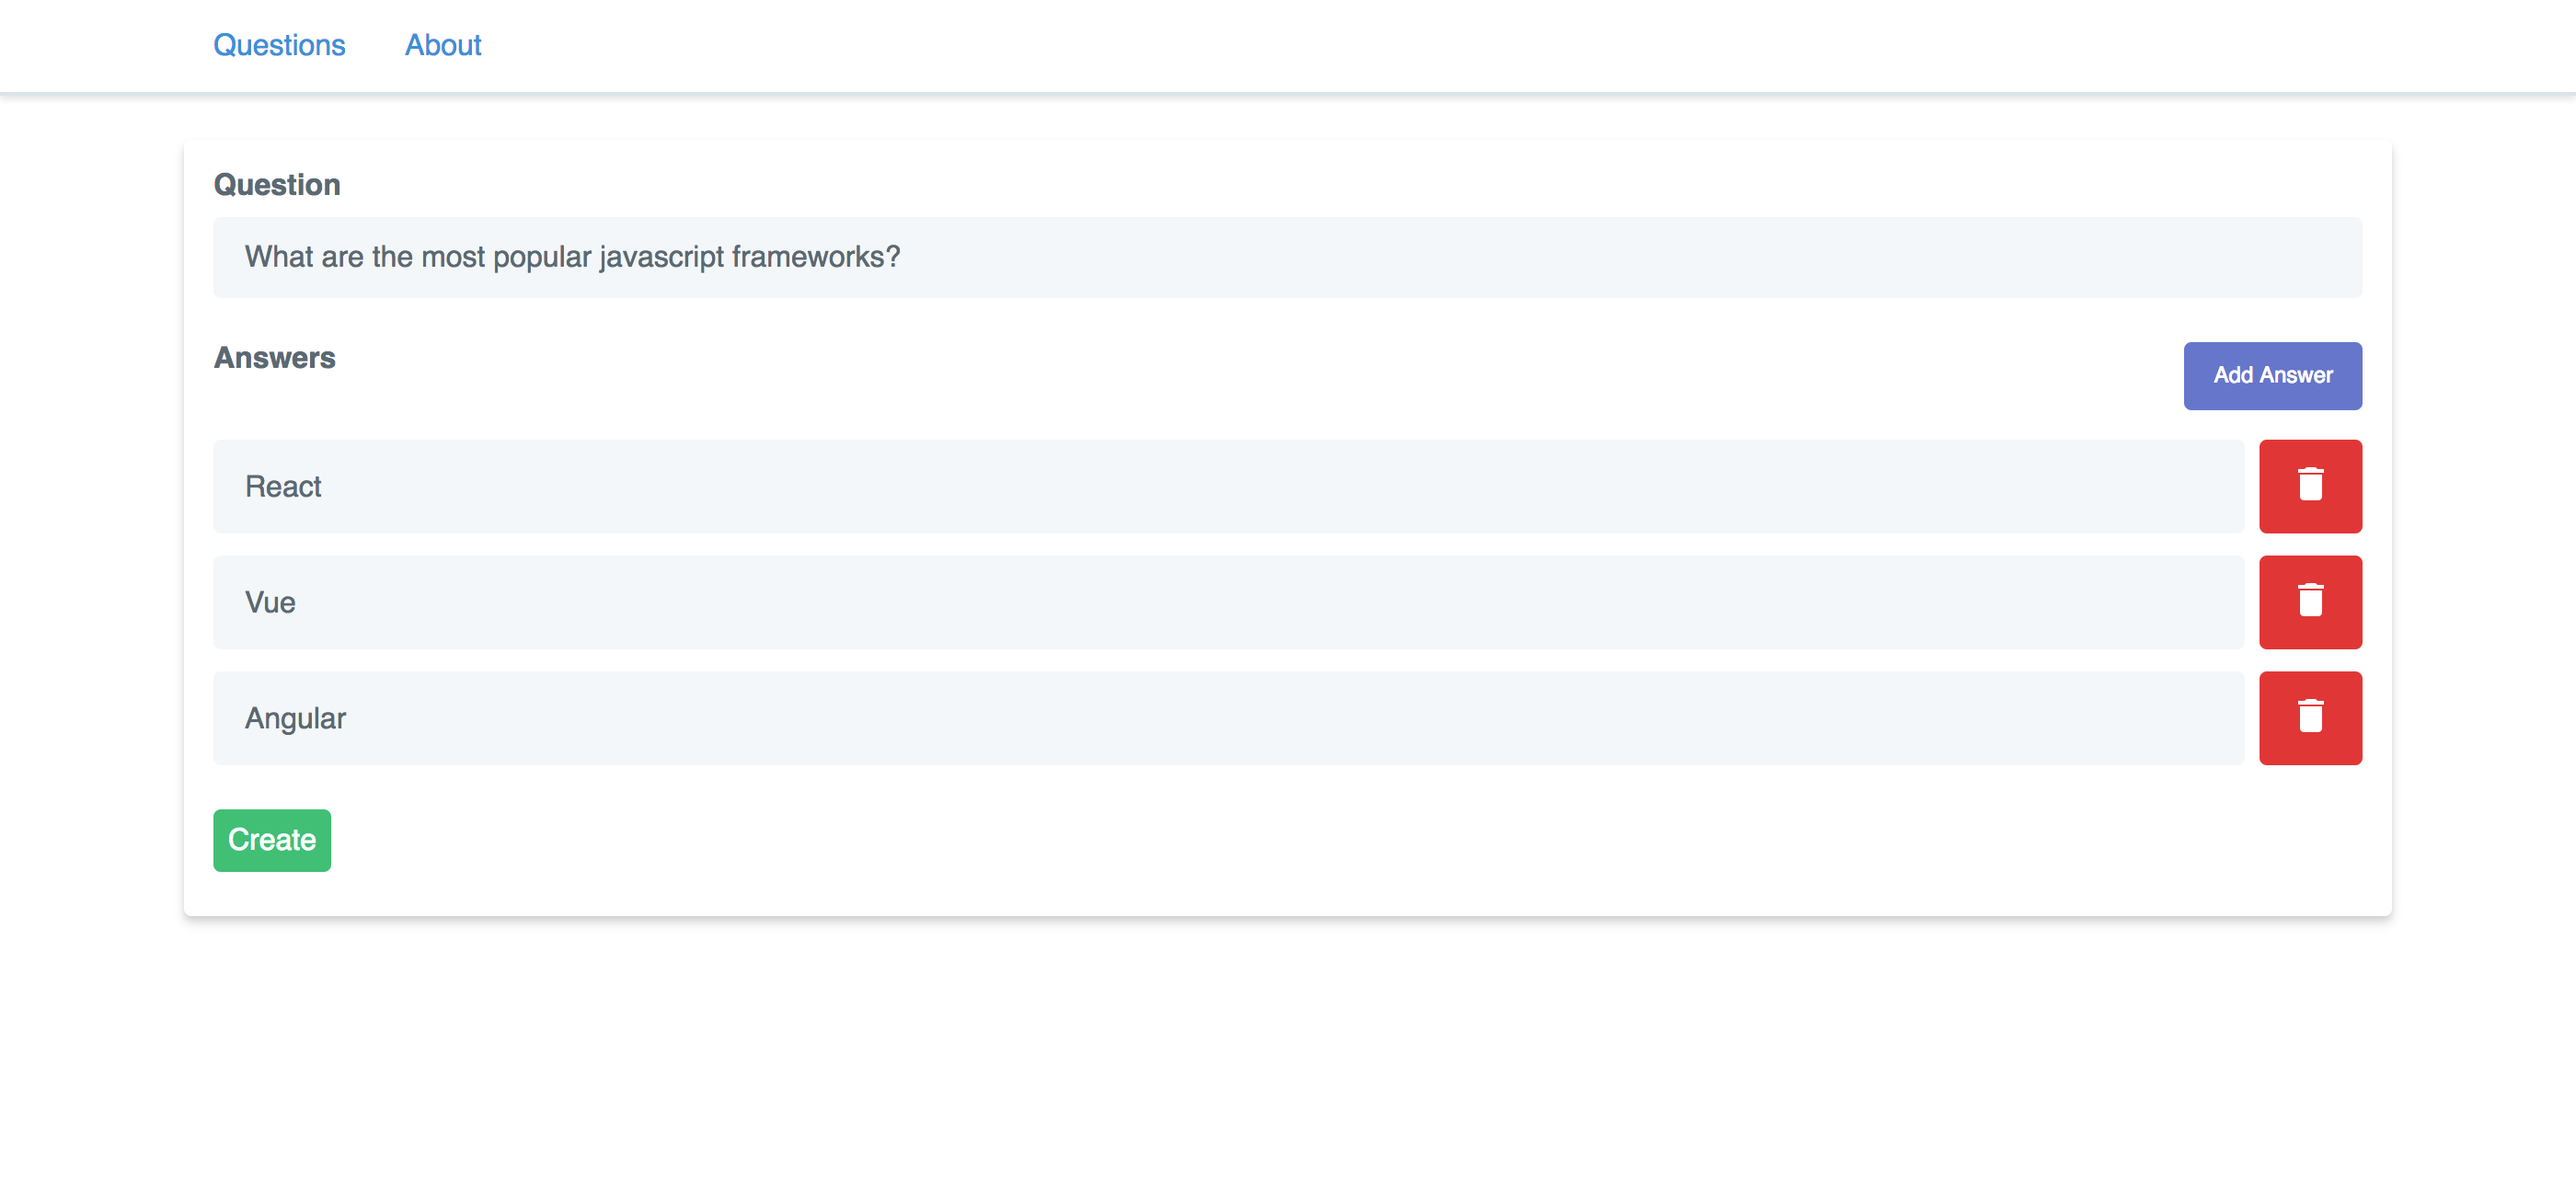
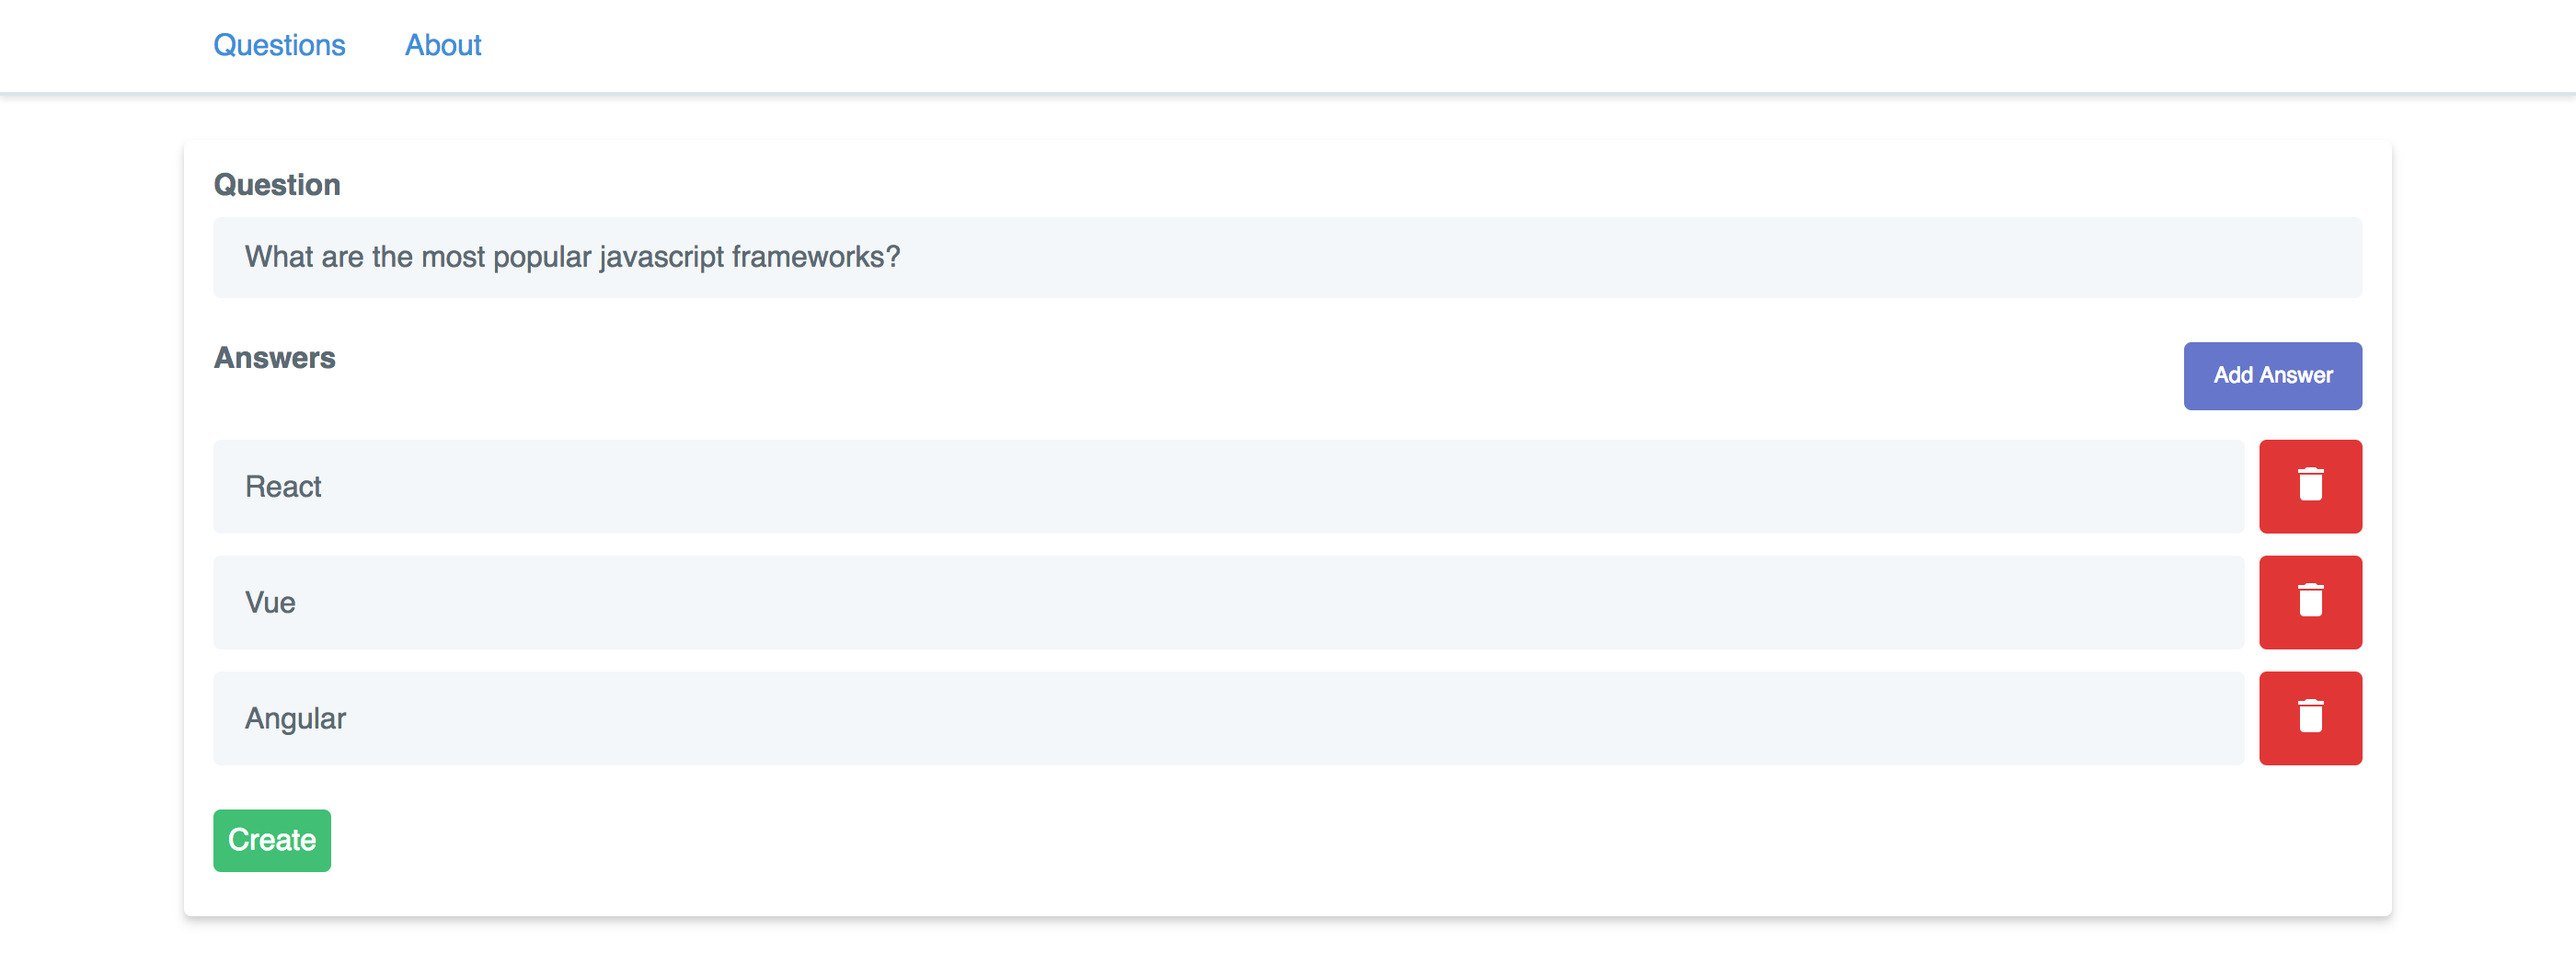
Resize images

diff --git a/README.MD b/README.MD
@@ -1,4 +1,5 @@
-# React SPA to practice questions with multiple answers.
+# Multi Questions 
+React SPA to practice questions with multiple answers.
 
 ## Preview
 #### Question List
